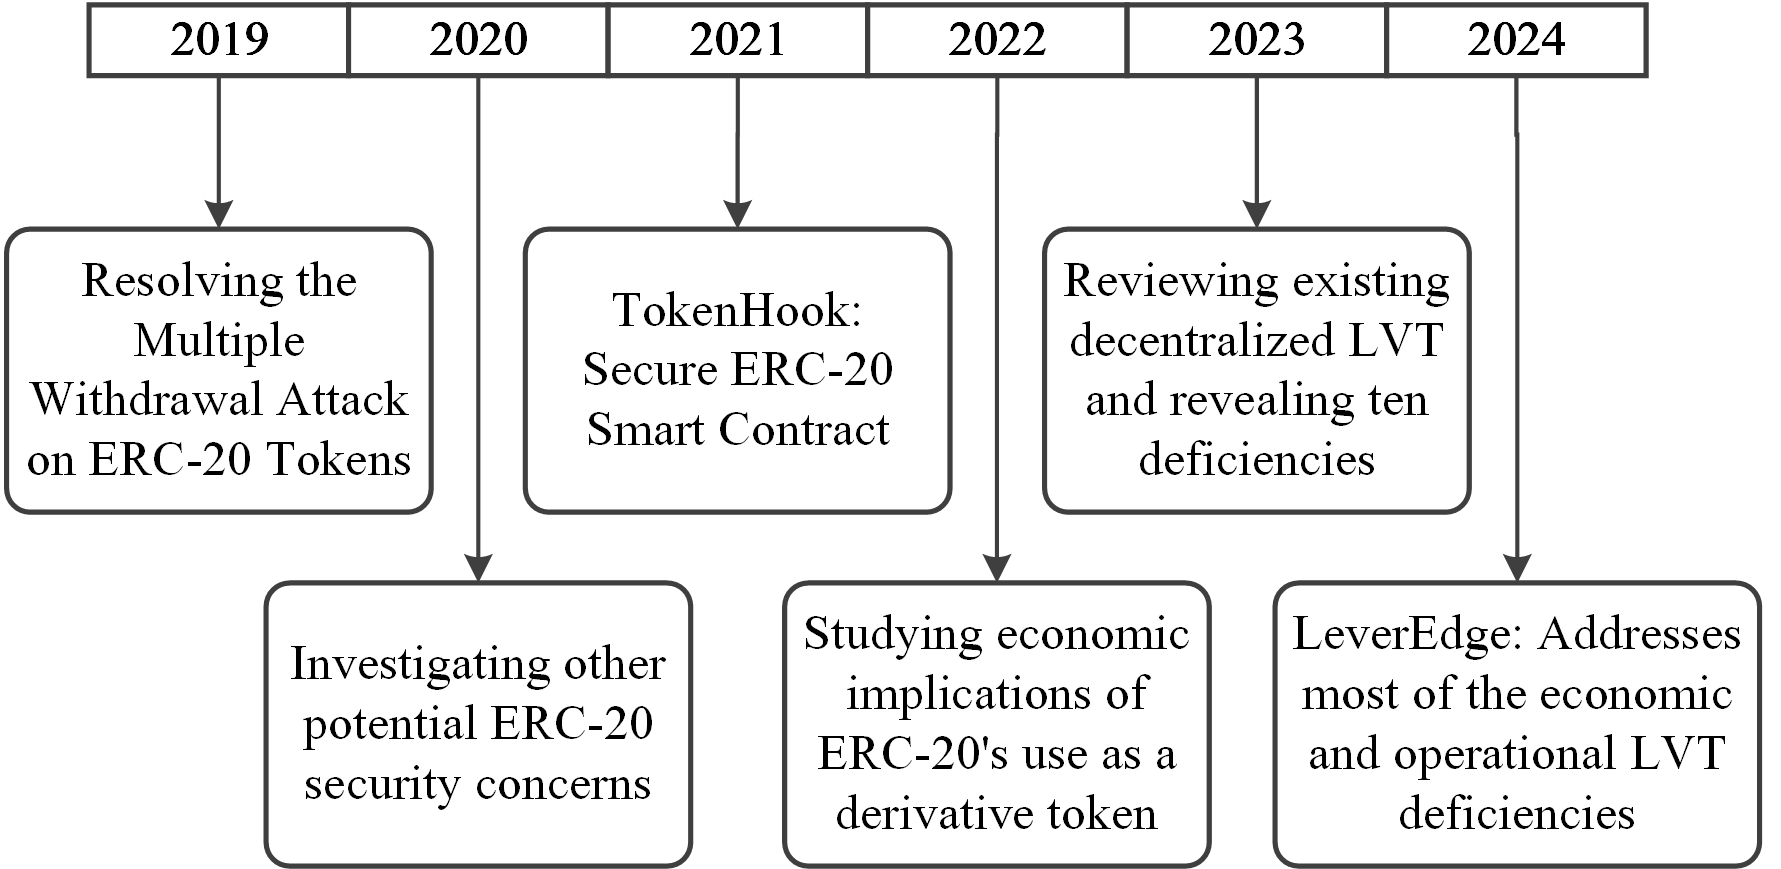
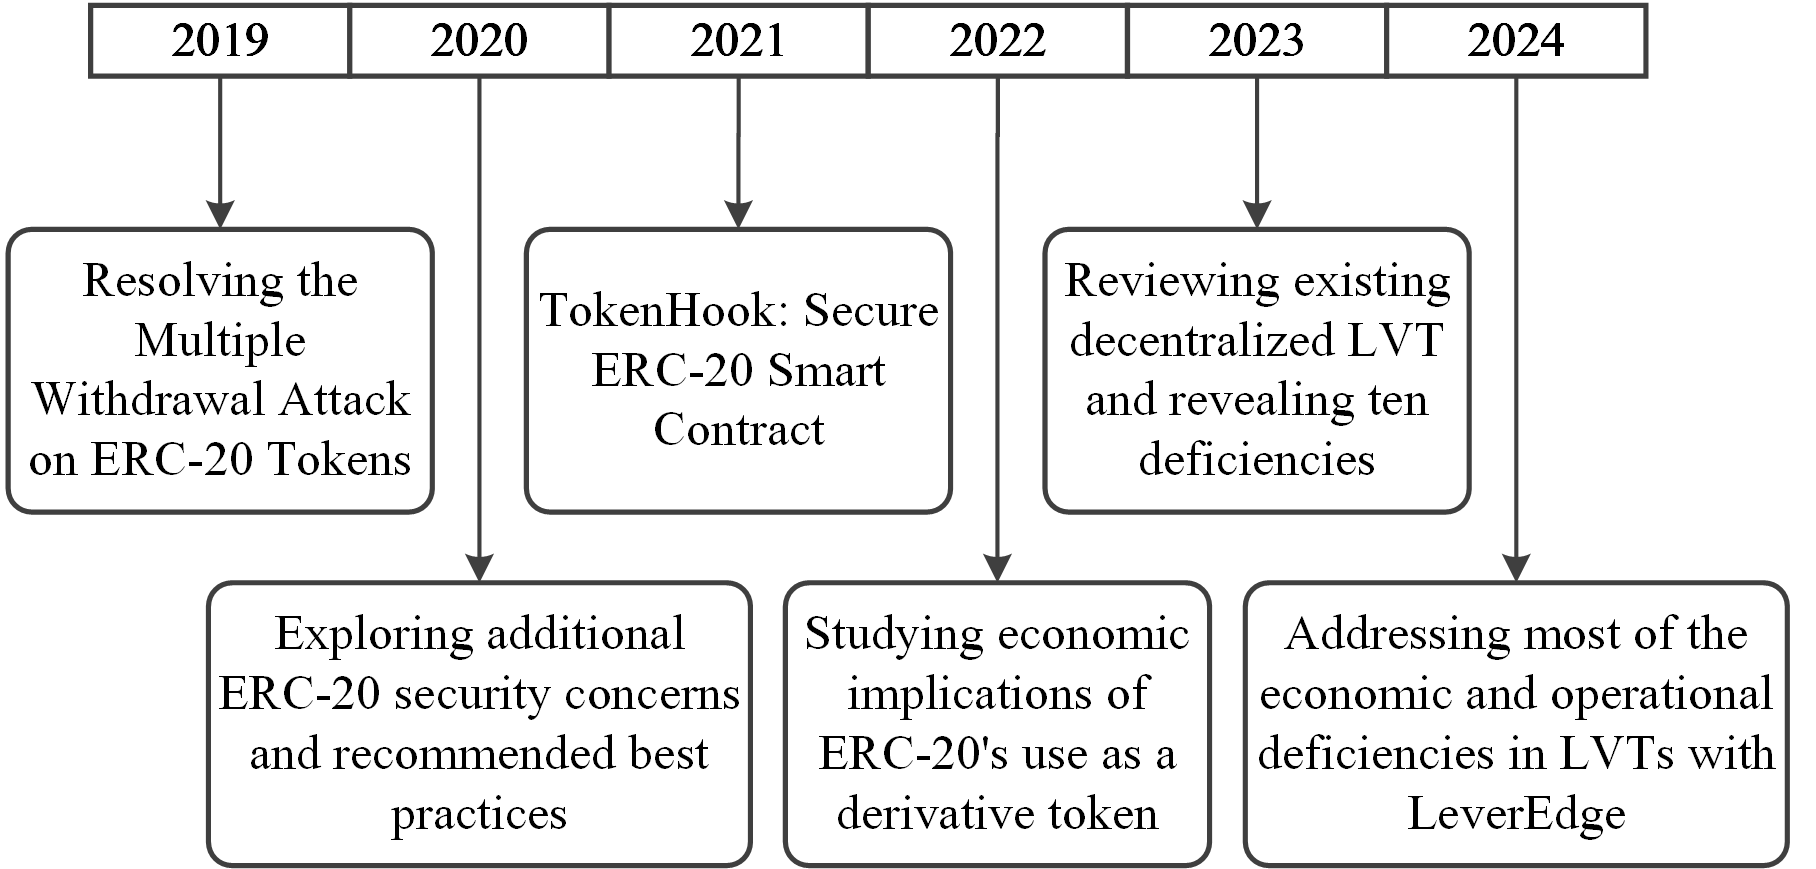
reviewed chapter 7

diff --git a/sections/11-conclusion.tex b/sections/11-conclusion.tex
@@ -13,7 +13,7 @@ As shown in Figure \ref{fig:timeline}, the summary of contributions from 2019 to
 \begin{figure}[t]
 	\centering
 	\includegraphics[width=\textwidth,keepaspectratio]{timeline.png}
-	\caption[Contributions summary]{Summary of contributions from 2019 to 2024}
+	\caption[Research contributions timeline]{The research contributions timeline from 2019 to 2024 began with resolving the \mwa on ERC-20 tokens in 2019, followed by exploring additional security concerns in 2020, developing TokenHook for secure contracts in 2021, studying ERC-20's economic implications in 2022, identifying LVT deficiencies in 2023, and concluding with addressing them using LeverEdge in 2024.}
 	\label{fig:timeline}
 \end{figure}
 
@@ -21,7 +21,7 @@ As shown in Figure \ref{fig:timeline}, the summary of contributions from 2019 to
 This work focuses on strengthening investor protection by improving security, user experience, and economic performance within the Ethereum ecosystem. Changes that Ethereum should learn from this work and recommendations are follows.
 
 \subsection{Reform of Approval Mechanisms}
-The current \texttt{approve} and \texttt{transferFrom} methods poses risks, particularly through indefinite allowances. To enhance investor protection, the Ethereum ecosystem should consider more secure approval models such as session-based (time-limited) or single-use approvals. Session-based approvals allow users to grant token allowances for a specific period or session, automatically expiring afterward. Single-use approvals permit a one-time token transfer, after which the allowance is revoked. These mechanisms reduce the risk of unauthorized or forgotten permissions, enhancing overall security.
+The current \texttt{approve} and \texttt{transferFrom} methods poses risks, particularly through indefinite allowances. To enhance investor protection, the Ethereum ecosystem should consider more secure approval models such as session-based (time-limited) or single-use approvals. Session-based approvals allow users to grant token allowances for a specific period or session, automatically expiring afterward. Single-use approvals permit a one-time token transfer, after which the allowance is revoked. These mechanisms reduce the risk of unauthorized or forgotten permissions, enhancing overall security and user protection.
 
 \subsection{Prioritization of Withdrawal Mechanism Security}
 TokenHook's approach to addressing vulnerabilities such as the Multiple Withdrawal Attack highlights the importance of secure withdrawal protocols. Establishing standards for secure withdrawal practices can ensure consistent safety across ERC-20 implementations, reducing investor risk.

diff --git a/main.tex b/main.tex
@@ -39,17 +39,15 @@
 \input{sections/10-leveredge.tex}
 \input{sections/11-conclusion.tex}
 
-% = = = = = = Bibliography 
-\addcontentsline{toc}{chapter}{Bibliography}  % Add Bibliography to TOC
-\singlespacing % Save space in the bibliography
+% = = = Bibliography 
+\addcontentsline{toc}{chapter}{Bibliography}
+\singlespacing
 \bibliographystyle{abbrv}
 {\small\bibliography{references.bib}}
 \nocite{*}
 
-% = = = = = Appx
+% = = = Appx
 \appendix
 \include{sections/appendices.tex}
-
-% = = = = = = Done 
 
 \end{document}
